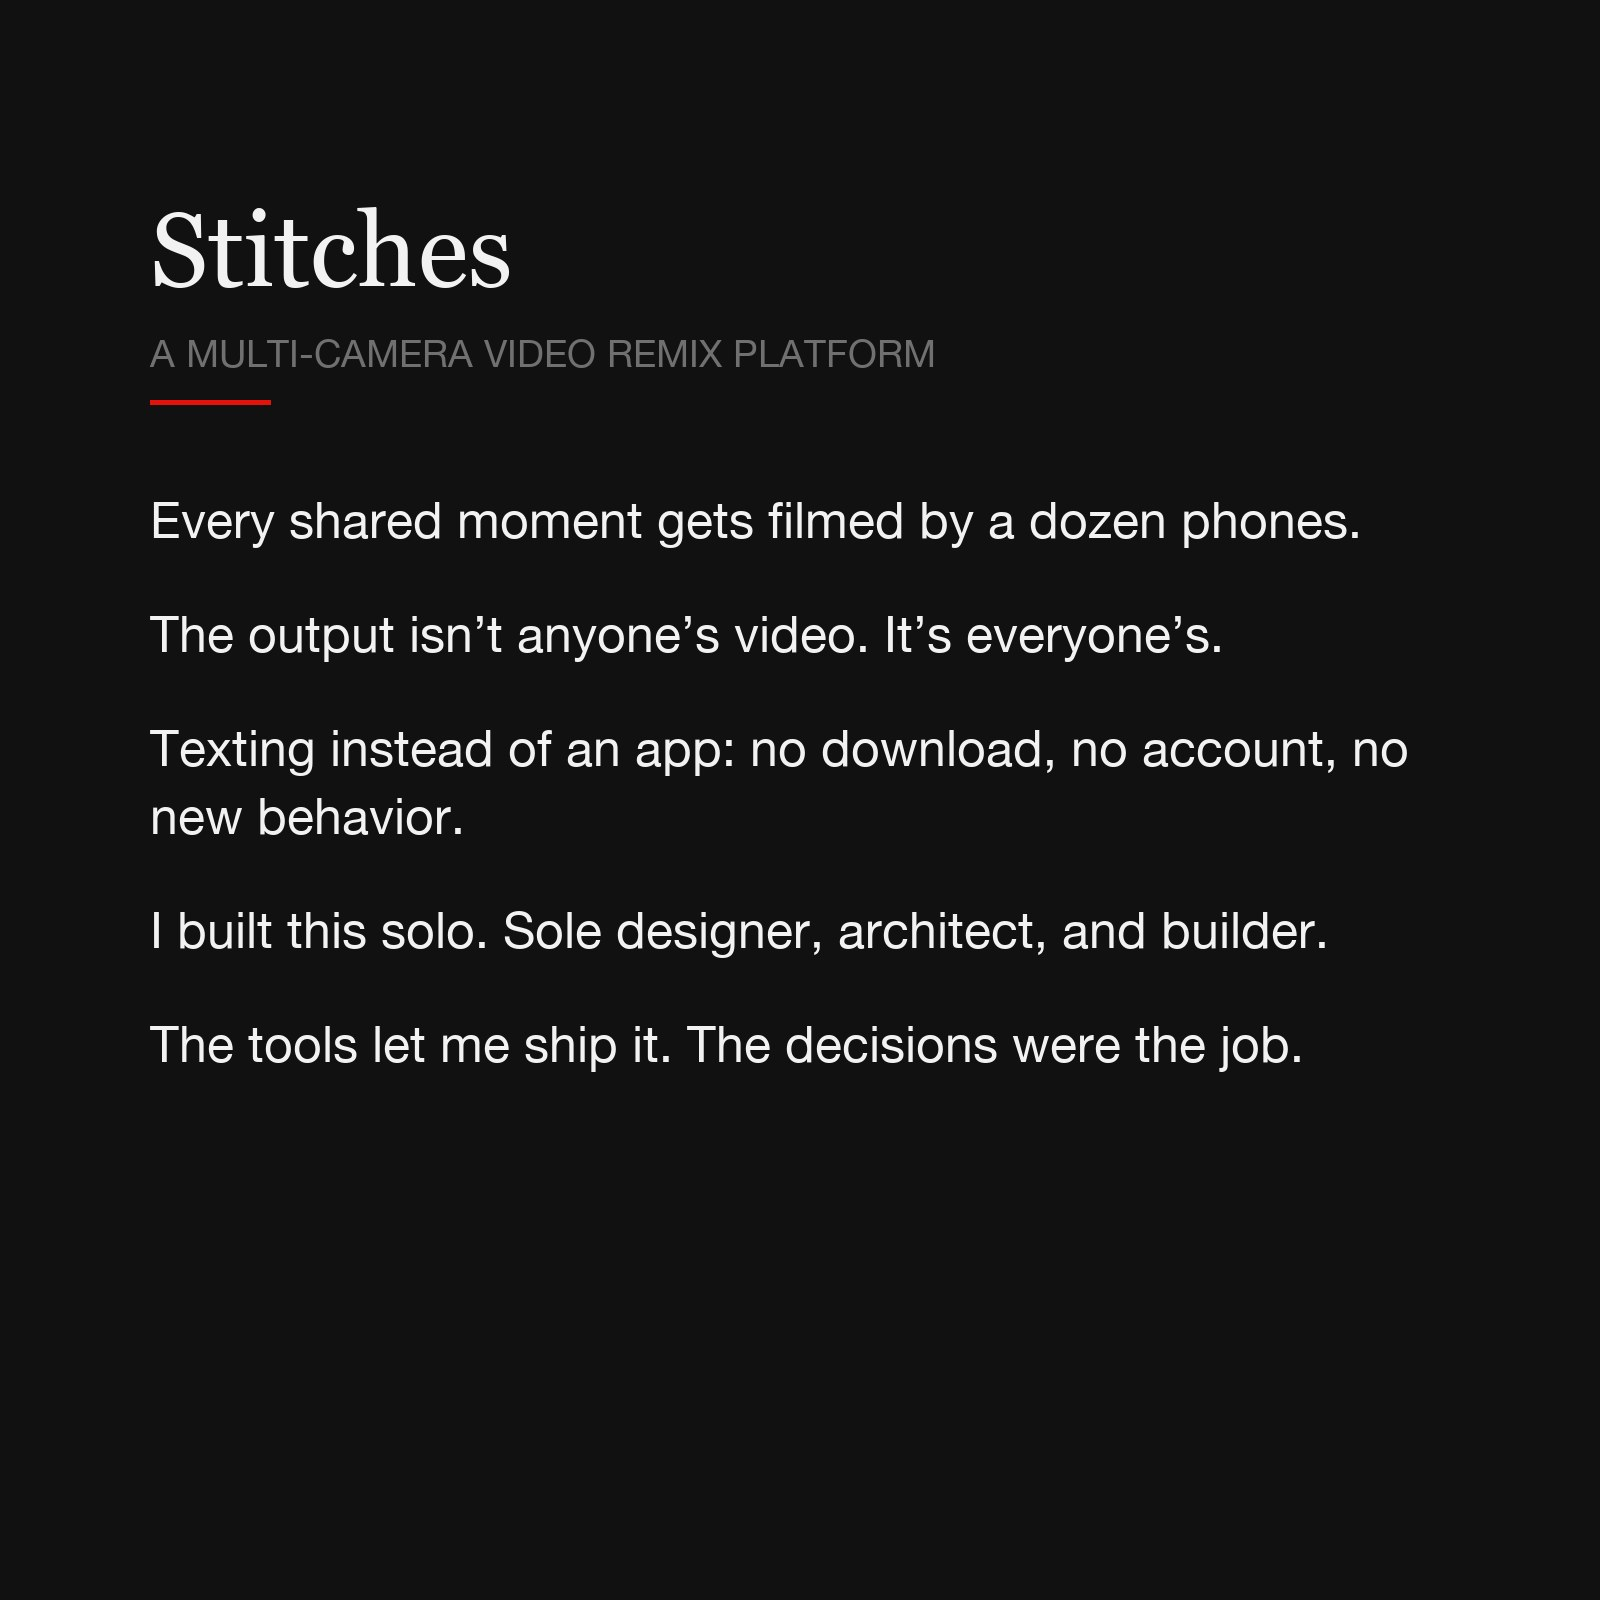
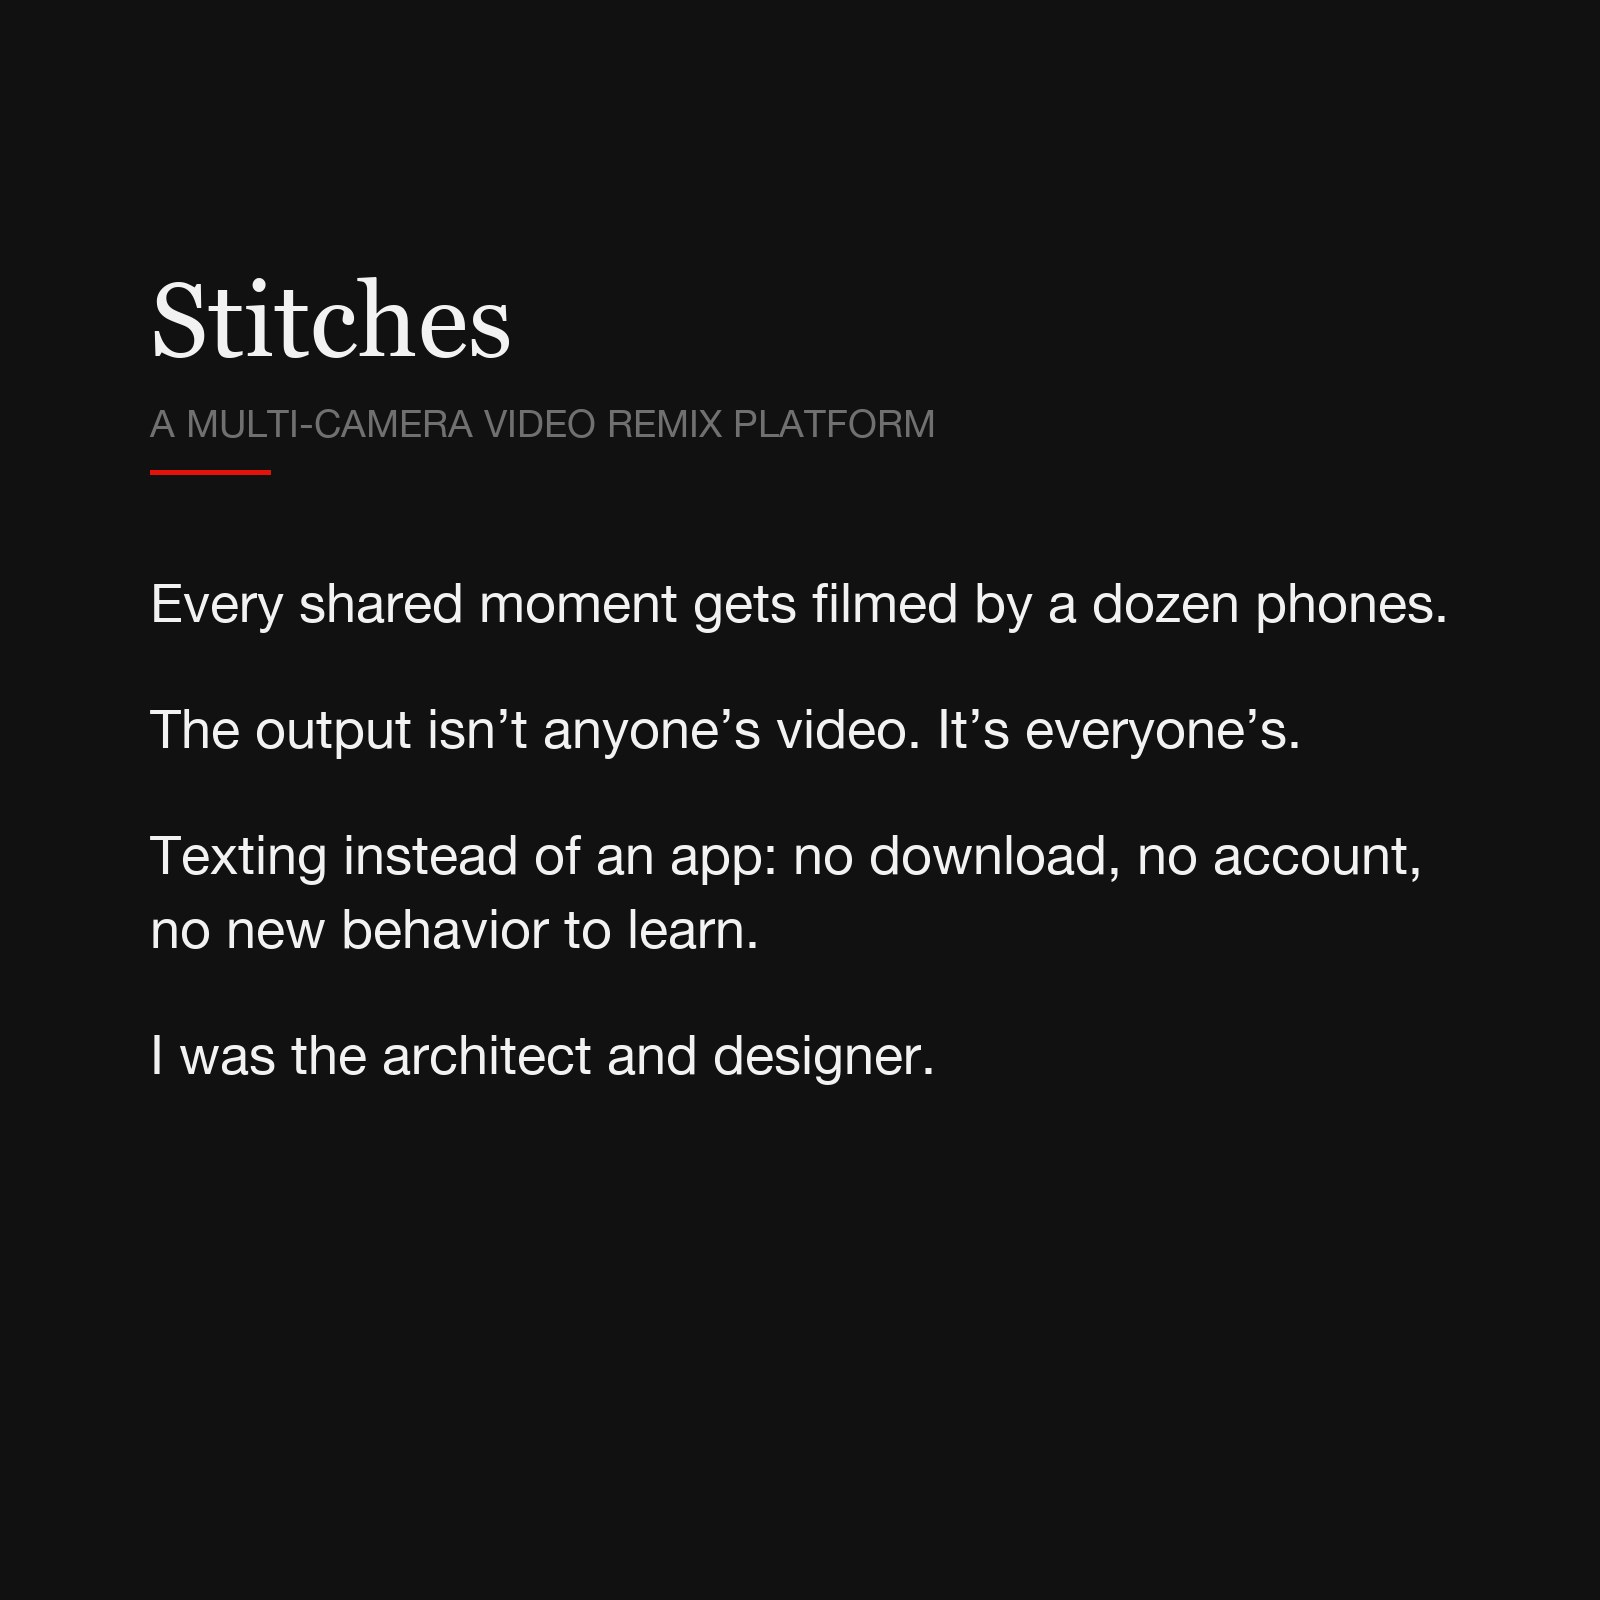
Stitches write-up: Thomas's copy

diff --git a/bullish/1on1/sw.js b/bullish/1on1/sw.js
@@ -1,7 +1,7 @@
 // Saves the whole meeting kit on first visit so it opens with no internet.
 // Bump VERSION whenever a file changes.
 importScripts('files.js');
-var VERSION = 'v26';
+var VERSION = 'v27';
 var CACHE = 'bullish-1on1-' + VERSION;
 
 function tell(msg) {
